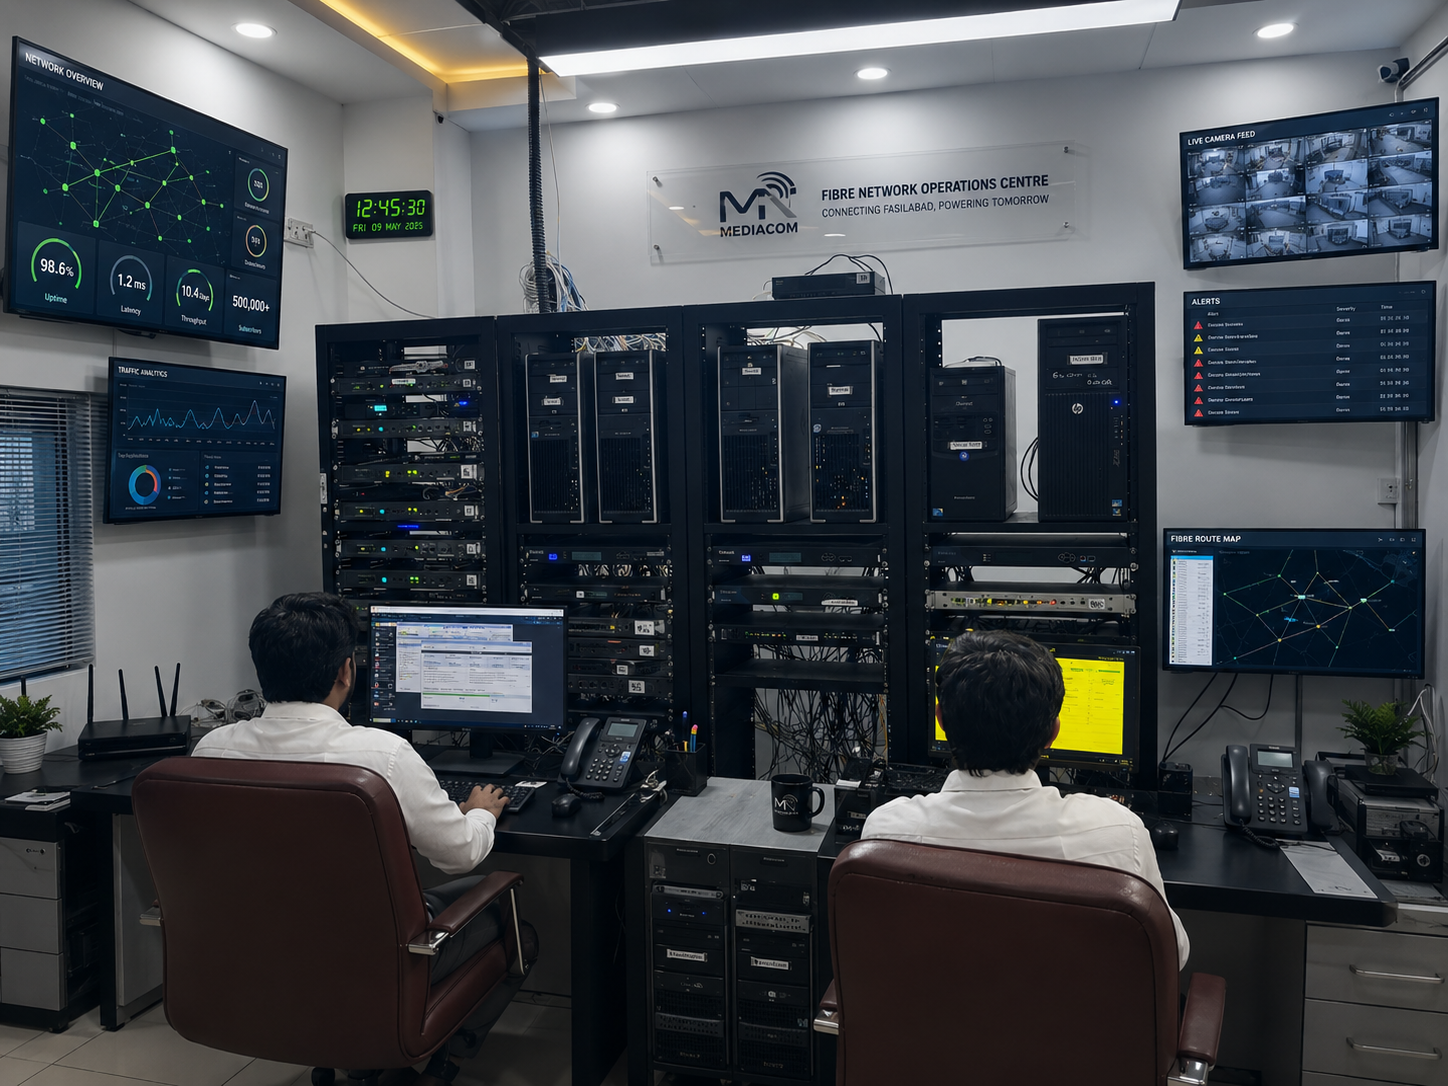
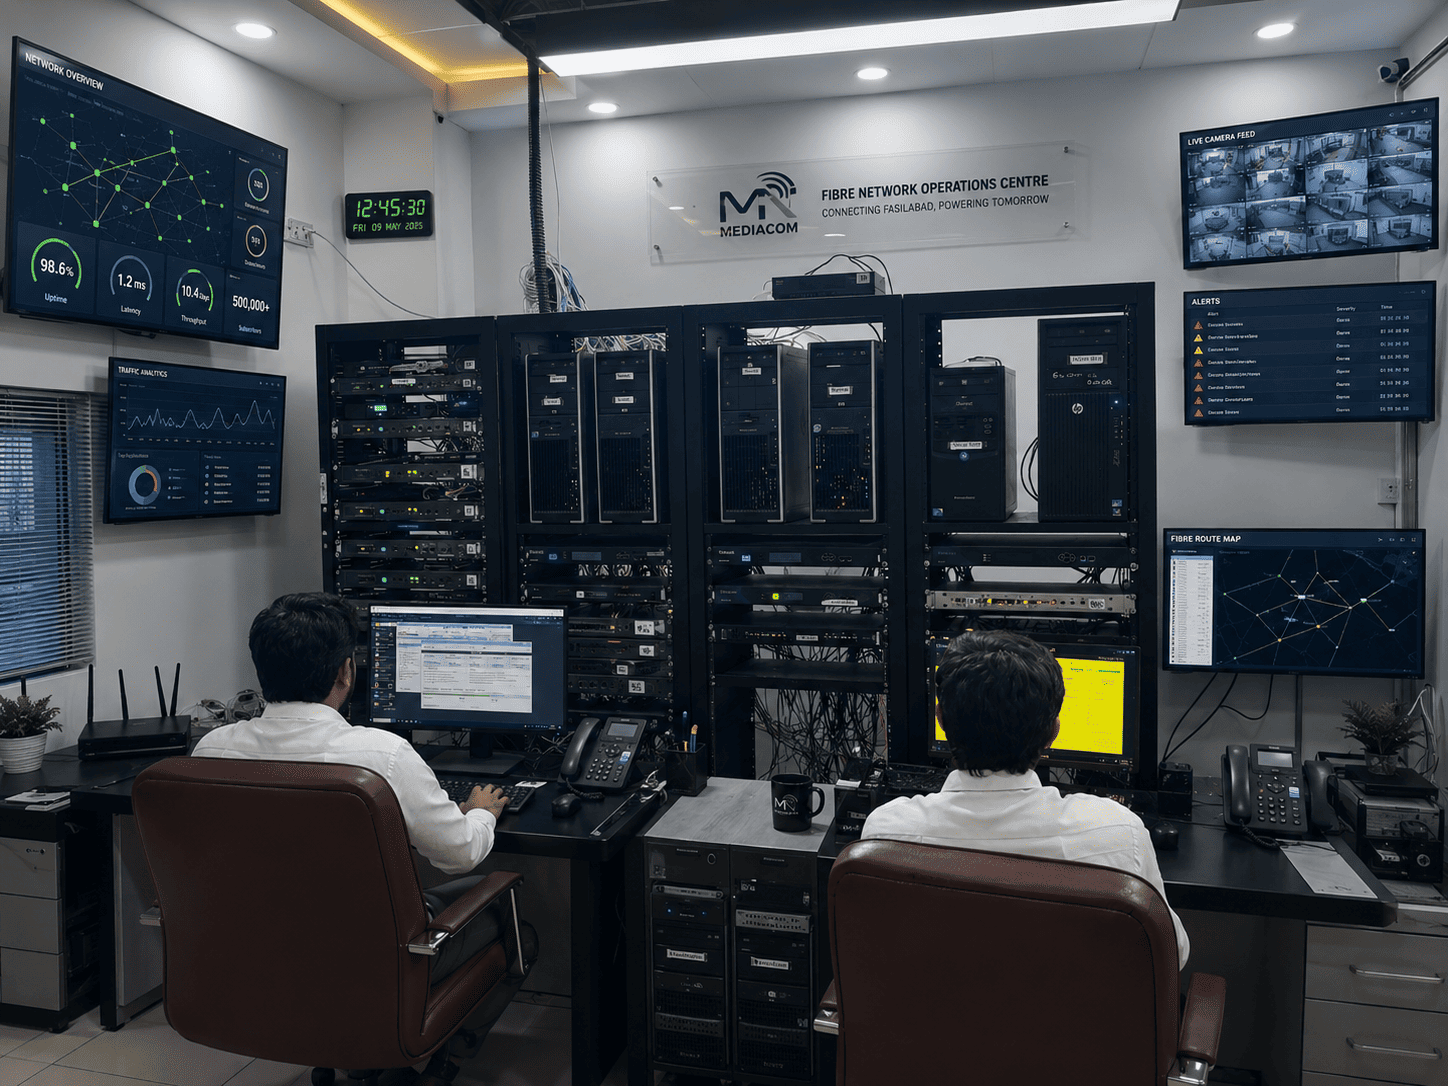
new

diff --git a/projects.html b/projects.html
@@ -79,7 +79,7 @@
         <div class="col-md-6 col-lg-4 animate-fade-up project-item" data-category="Telecom">
           <a href="telecom.html" class="glass-card project-card text-decoration-none">
             <div class="card-img-wrap">
-              <img src="assets/hero-main.jpg" alt="Mediacom CATV (Pvt.) Ltd." loading="lazy" />
+              <img src="assets/mediacom-view.png" alt="Mediacom CATV (Pvt.) Ltd." loading="lazy"  style="width:100%; height:100%; object-fit:cover; object-position:top center;"/>
             </div>
             <div class="card-body-mc">
               <span class="card-cat">Telecom</span>
@@ -118,7 +118,7 @@
         <div class="col-md-6 col-lg-4 animate-fade-up project-item" data-category="Real Estate">
           <a href="real-estate.html" class="glass-card project-card text-decoration-none">
             <div class="card-img-wrap">
-              <img src="assets/mediacom_avenue.png" alt="Mediacom Avenue" loading="lazy" />
+              <img src="assets/mediacom evenue cover.png" alt="Mediacom Avenue" loading="lazy" />
             </div>
             <div class="card-body-mc">
               <span class="card-cat">Real Estate</span>
@@ -138,7 +138,7 @@
         <div class="col-md-6 col-lg-4 animate-fade-up project-item" data-category="Telecom">
           <a href="mscol.html" class="glass-card project-card text-decoration-none">
             <div class="card-img-wrap">
-              <img src="assets/telecom-hero.jpg" alt="McSOL (Pvt.) Ltd." loading="lazy" />
+              <img src="assets/mcsol pvt/second.png" alt="McSOL (Pvt.) Ltd." loading="lazy" />
             </div>
             <div class="card-body-mc">
               <span class="card-cat">Telecom</span>
@@ -195,7 +195,7 @@
         <div class="col-md-6 col-lg-4 animate-fade-up project-item" data-category="Real Estate">
           <a href="c8-central.html" class="glass-card project-card text-decoration-none">
             <div class="card-img-wrap">
-              <img src="assets/c8_central/c8_hero_bedroom.jpg" alt="C8 Central – Luxury Apartments" loading="lazy" />
+              <img src="assets/c8_central/new model cover.png" alt="C8 Central – Luxury Apartments" loading="lazy" style="width:100%; height:100%; object-fit:cover; object-position:top center;"/>
             </div>
             <div class="card-body-mc">
               <span class="card-cat">Real Estate</span>